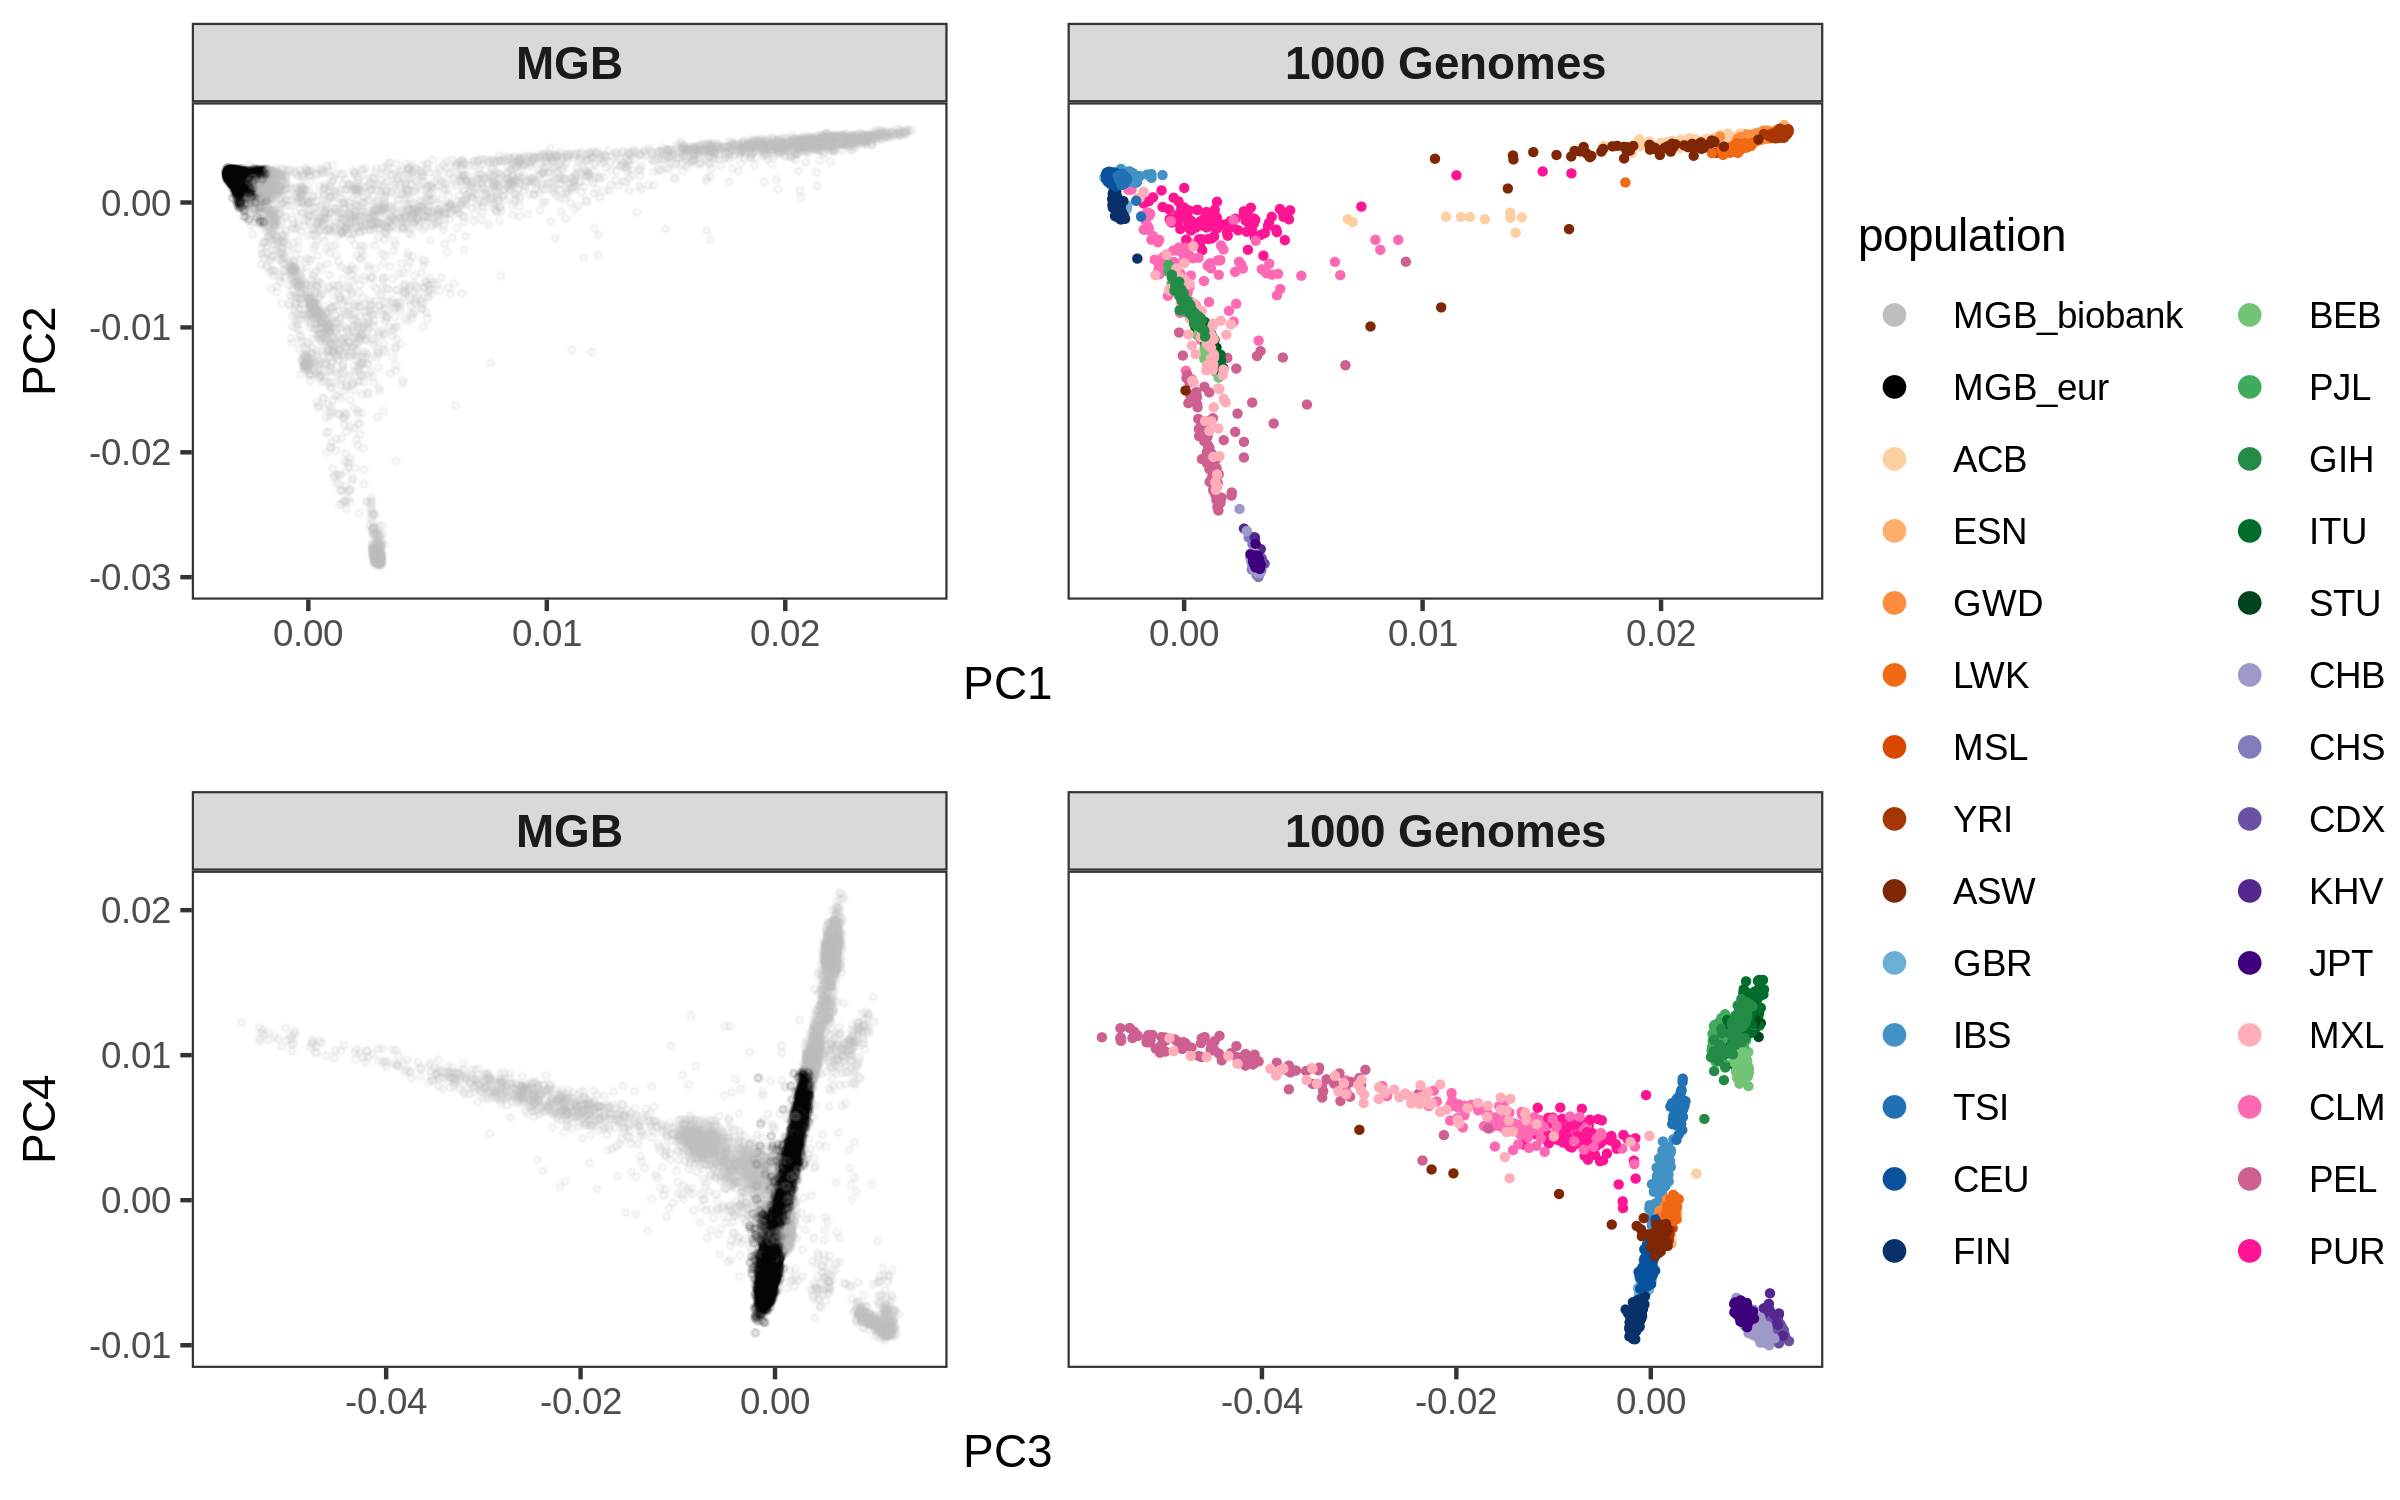
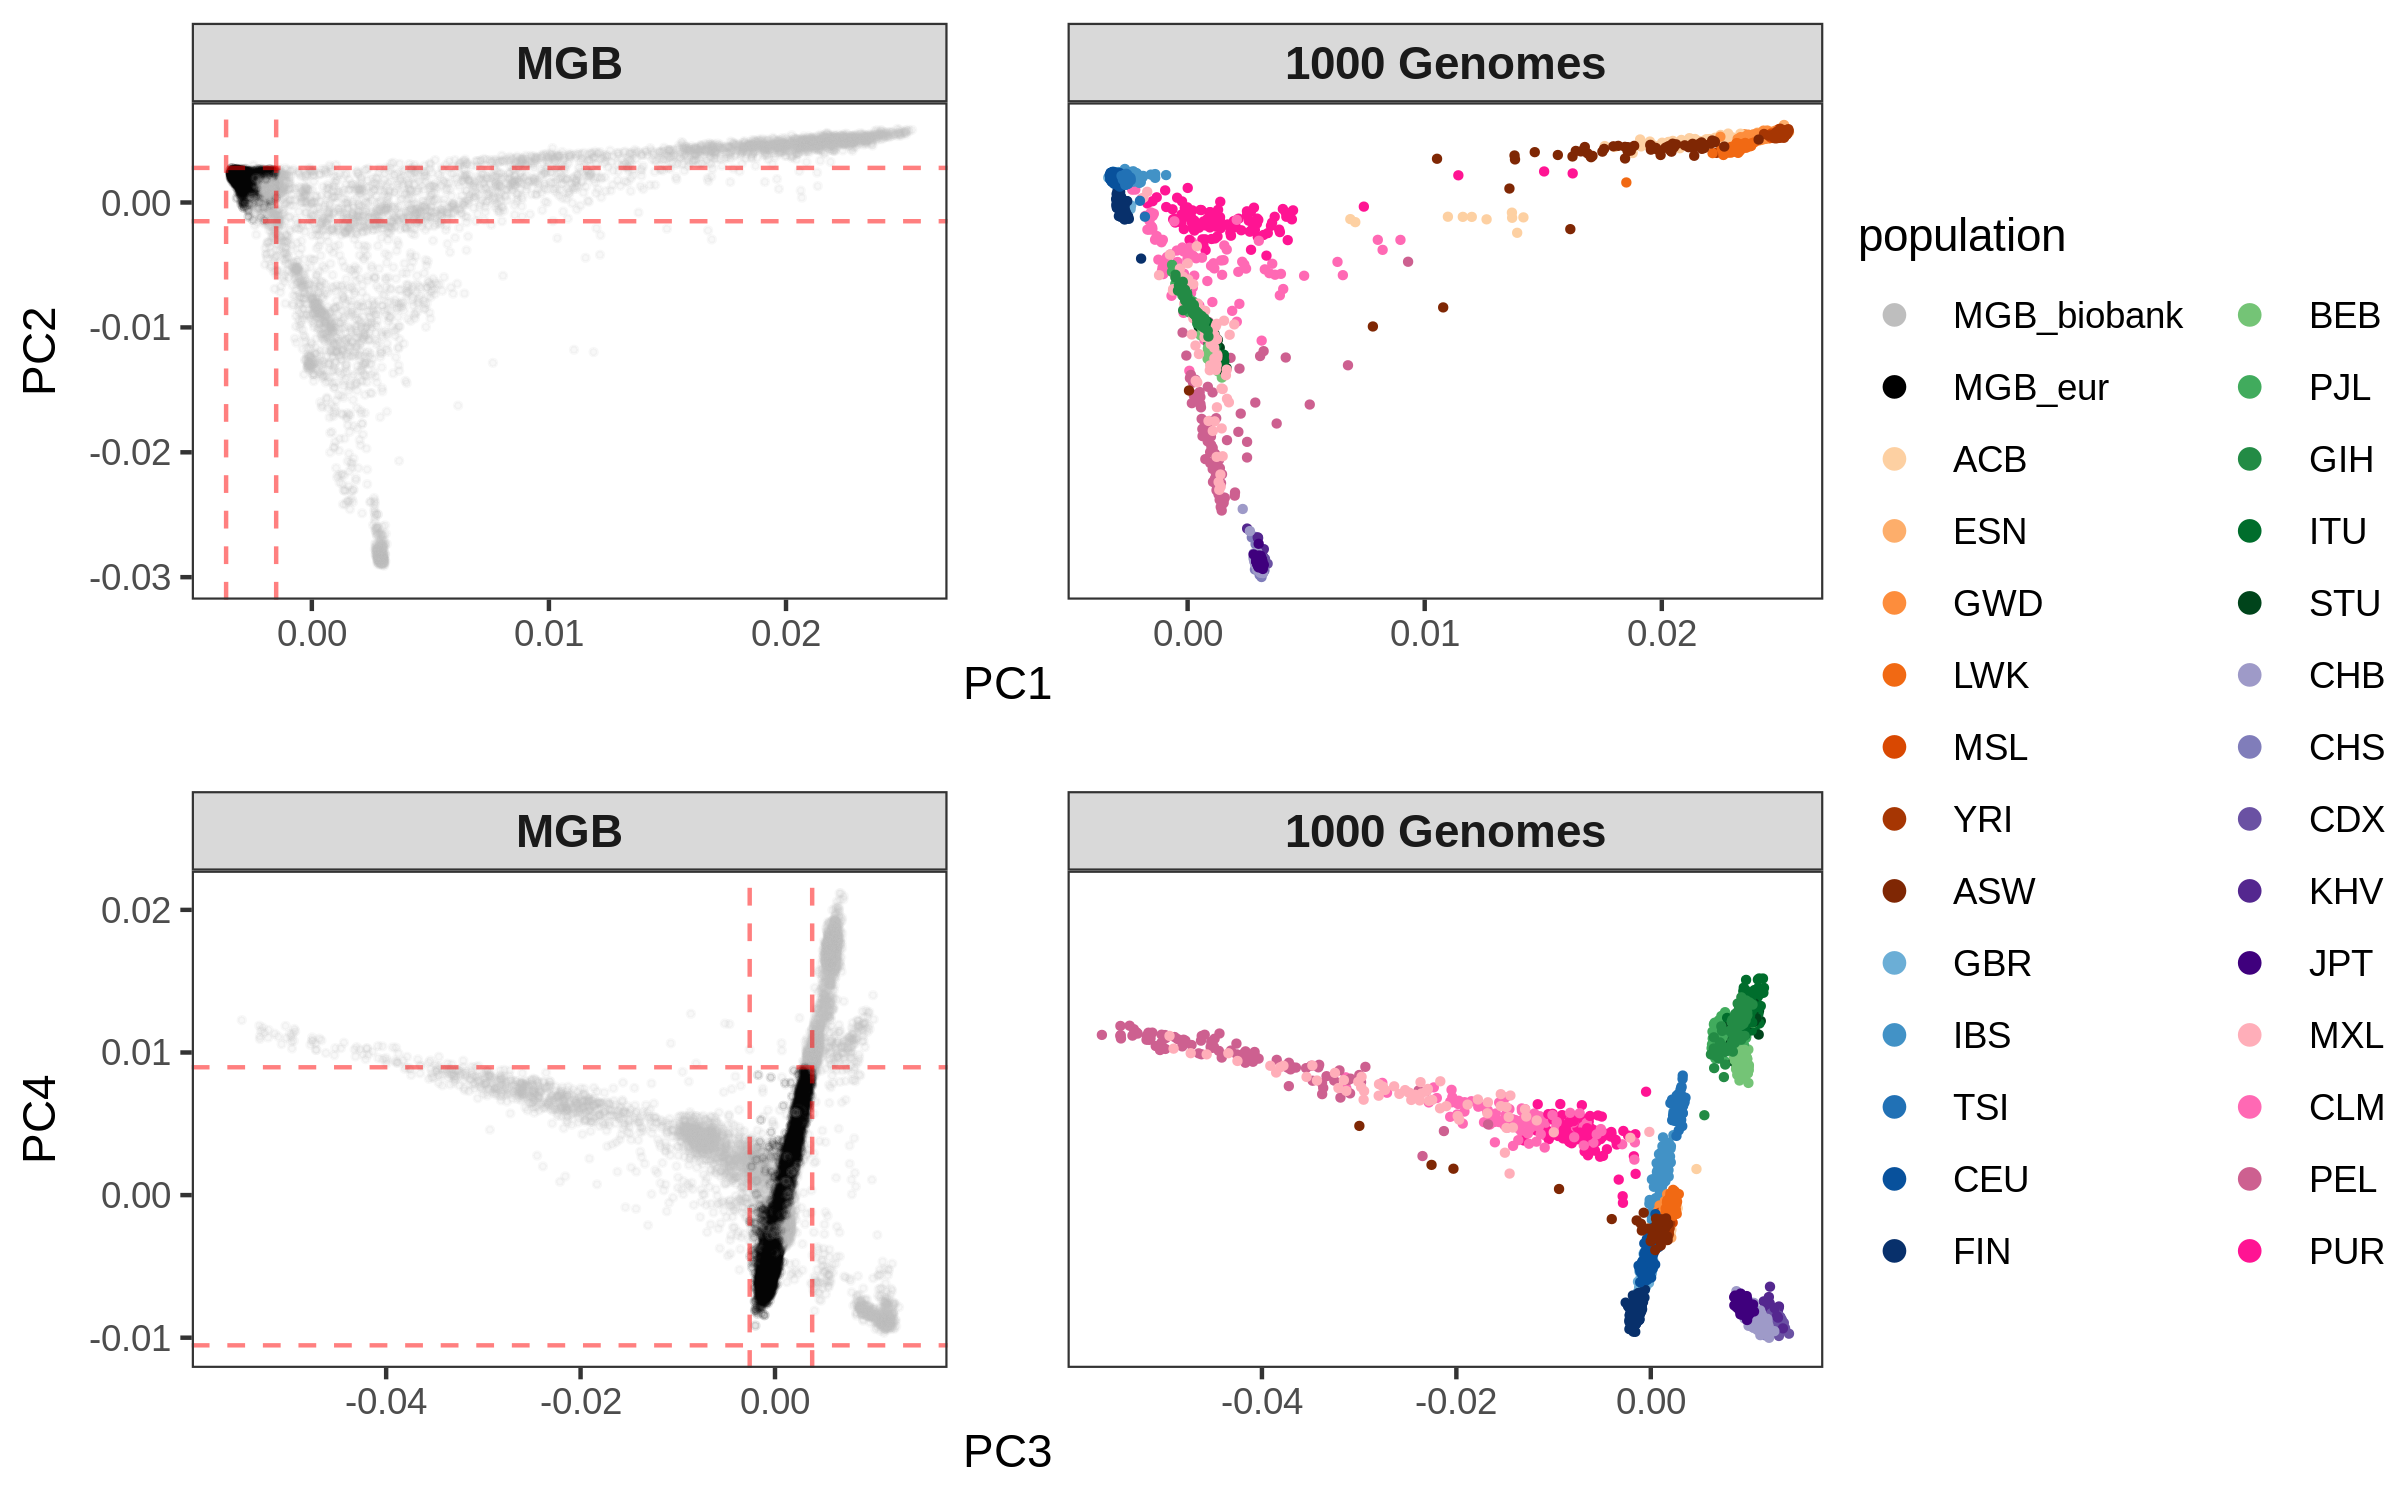
update readme; change selection on PCA to gating

diff --git a/README.md b/README.md
@@ -219,10 +219,8 @@ have high European ancestry.
 ##### Selecting individuals with high European ancestry
 
 In order to select individuals with European ancestry given PC
-coordinates, we computed the mean and SD for PC1 –PC4 in 1000 Genomes
-Europeans, and computed a z-score for each MGB individuals, selecting
-all individuals falling between -3 and +3 SDs for PC 1 and 2, and ±2 for
-PC 3 and 4.
+coordinates, we gate the PCA plot based on the range of values for
+PC1–PC4 in the 1000 Genomes European set.
 
 <img src="./plots/pca_eur.png" width="2400" />
 
